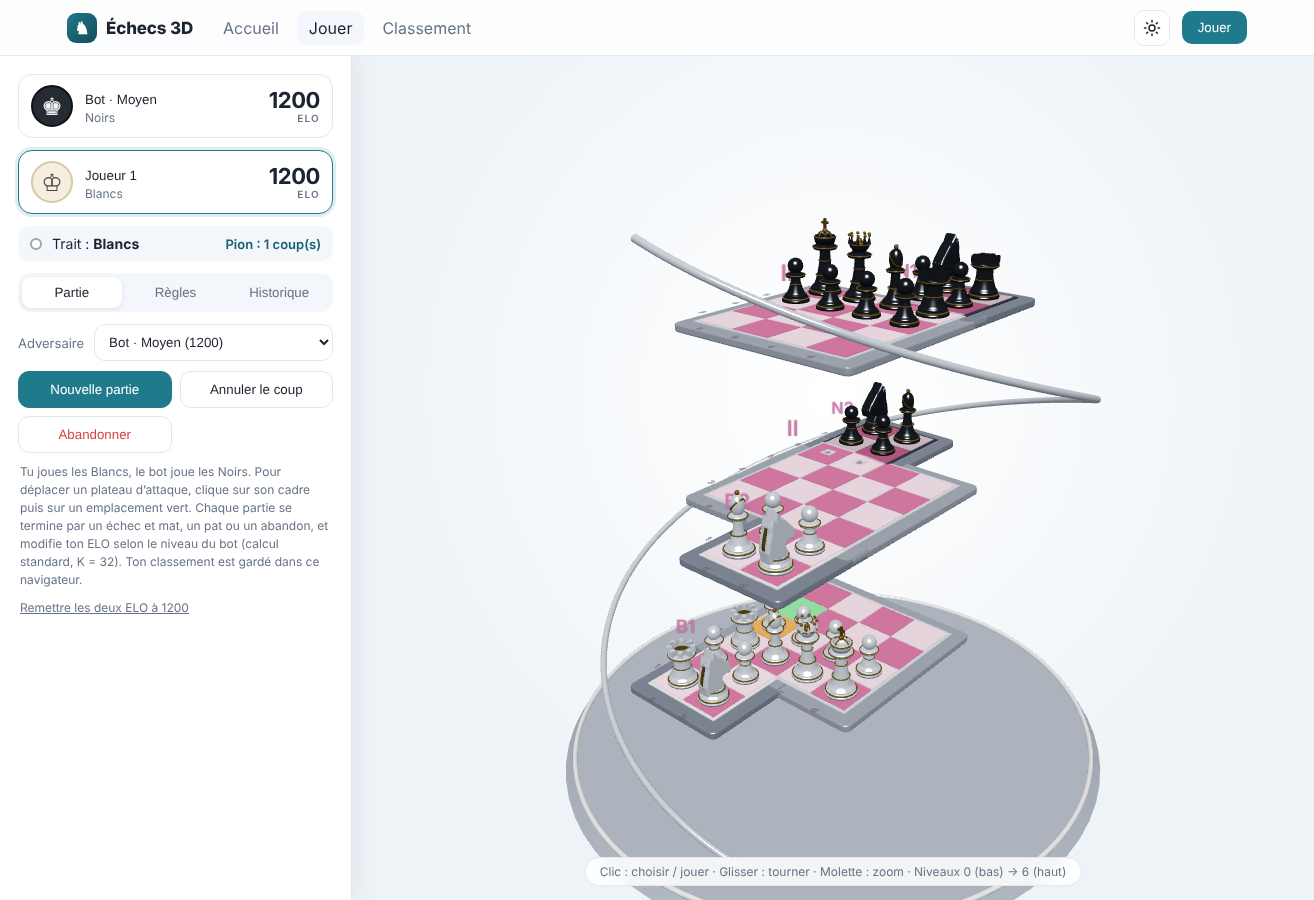
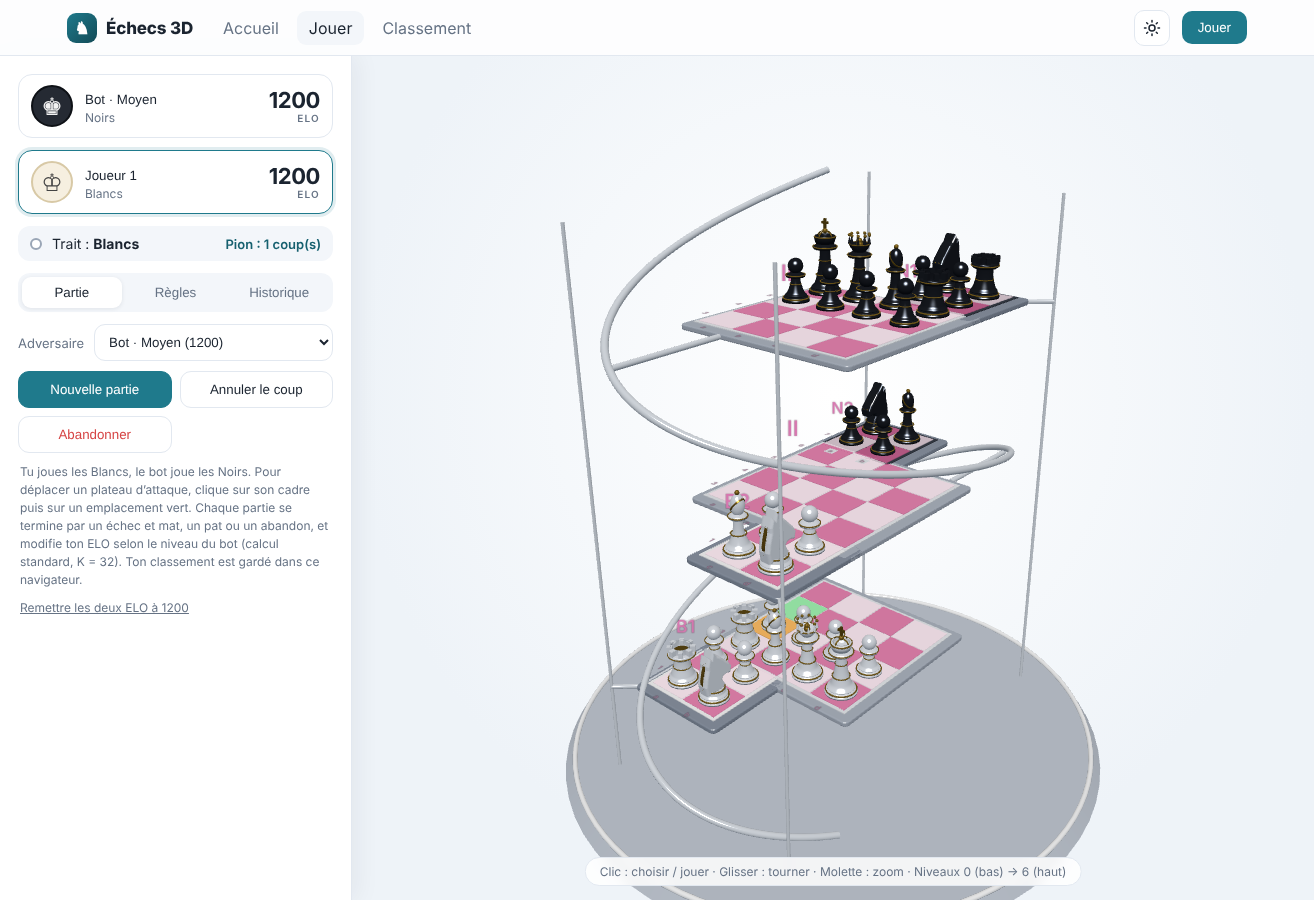
Plateau refait comme la maquette : plaques fines à bord argenté, spirale chromée reliée aux plateaux par des bras, colonnes d'angle pour les plateaux d'attaque
Claude-Session: https://claude.ai/code/session_01Grt3MVHYQUhc4gDu99tZDS

diff --git a/index.html b/index.html
@@ -214,15 +214,15 @@ const ivMat=chrome(0xffffff,180);
 const nkMat=chrome(0x3a404a,120);
 function mkBoard(x0,y0,w,h,z,own,bid){
   const Y=z*GAP,cx=(x0+(w-1)/2-1.5)*S,cz=(3.5-(y0+(h-1)/2))*S;
-  const fr=new THREE.Mesh(new THREE.ExtrudeGeometry(rrShape(w*S+.7,h*S+.7,.14),{depth:.1,bevelEnabled:true,bevelSize:.04,bevelThickness:.04,bevelSegments:3}),bid?frameMatB:frameMat);
-  fr.rotation.x=-Math.PI/2;fr.position.set(cx,Y-.17,cz);boardGroup.add(fr);
+  const fr=new THREE.Mesh(new THREE.ExtrudeGeometry(rrShape(w*S+.5,h*S+.5,.12),{depth:.06,bevelEnabled:true,bevelSize:.03,bevelThickness:.03,bevelSegments:3}),bid?frameMatB:frameMat);
+  fr.rotation.x=-Math.PI/2;fr.position.set(cx,Y-.14,cz);boardGroup.add(fr);
   if(bid){fr.userData.bid=bid;frameMeshes.push(fr)}
   const inl=new THREE.Mesh(new THREE.BoxGeometry(w*S+.14,.02,h*S+.14),bid?(own=='w'?ivMat:nkMat):goldMat);inl.position.set(cx,Y-.01,cz);boardGroup.add(inl);
   for(let a=0;a<w;a++)for(let c=0;c<h;c++){const x=x0+a,y=y0+c;const base=(x+y+z)%2?LIGHT:DARK;
     const m=new THREE.Mesh(new THREE.BoxGeometry(S*.97,.07,S*.97),new THREE.MeshStandardMaterial({color:base,roughness:.18,metalness:.1,emissive:base,emissiveIntensity:.2,transparent:true,opacity:.8}));
     m.position.copy(wp(x,y,z));m.position.y-=.02;m.userData={x,y,z,base,bd:bid||null};boardGroup.add(m);cellMeshes.push(m)}
-  for(let a=0;a<w;a++)flat('abcd'[x0+a],(x0+a-1.5)*S,Y+.02,cz+(h*S/2+.4));
-  for(let c=0;c<h;c++)flat(String(y0+c+1),cx-(w*S/2+.4),Y+.02,(3.5-(y0+c))*S);
+  for(let a=0;a<w;a++)flat('abcd'[x0+a],(x0+a-1.5)*S,Y+.02,cz+(h*S/2+.3),.26);
+  for(let c=0;c<h;c++)flat(String(y0+c+1),cx-(w*S/2+.3),Y+.02,(3.5-(y0+c))*S,.26);
   const tag=bid?bid:'';const names=['I','II','III'];
   const L=new THREE.Sprite(new THREE.SpriteMaterial({map:txt(bid||names[(z-1)/2],'#b02e6f',bid?80:100),transparent:true}));
   L.position.set(cx-(w*S/2+.95),Y+.2,cz-(h*S/2-.1));L.scale.set(.7,.7,1);boardGroup.add(L)}
@@ -231,9 +231,16 @@ function buildBoards(){
   for(const z of[1,3,5])mkBoard(0,2,4,4,z,null,null);
   for(const b of ST.bd)mkBoard(b.x0,b.y0,2,2,b.z,b.own,b.id);
   const H=6*GAP;
-  // pied chromé en spirale, comme le jeu de la série
-  const pts=[];for(let i=0;i<=90;i++){const t=i/90,a=1.2+t*Math.PI*2.1;pts.push(new THREE.Vector3(Math.cos(a)*5.6,-.3+t*(H+.8),Math.sin(a)*5.4))}
-  boardGroup.add(new THREE.Mesh(new THREE.TubeGeometry(new THREE.CatmullRomCurve3(pts),260,.07,12,false),chrome(0xe3e8ee,220)));
+  const rod=(a,b,r,m)=>{const d=new THREE.Vector3().subVectors(b,a),len=d.length();const o=new THREE.Mesh(new THREE.CylinderGeometry(r,r,len,12),m);o.position.copy(a).addScaledVector(d,.5);o.quaternion.setFromUnitVectors(new THREE.Vector3(0,1,0),d.normalize());boardGroup.add(o)};
+  const CH=chrome(0xe3e8ee,220),Ht=H+.8,A=3.3,B=5.4;
+  const hp=t=>{const a=.6+t*Math.PI*3;return new THREE.Vector3(Math.cos(a)*A,-.3+t*Ht,Math.sin(a)*B)};
+  const pts=[];for(let i=0;i<=120;i++)pts.push(hp(i/120));
+  boardGroup.add(new THREE.Mesh(new THREE.TubeGeometry(new THREE.CatmullRomCurve3(pts),320,.075,12,false),CH));
+  // bras qui tiennent chaque plateau principal sur la spirale
+  for(const z of[1,3,5]){const Y=z*GAP,P=hp((Y+.3)/Ht);const Q=new THREE.Vector3(Math.max(-2.3,Math.min(2.3,P.x)),Y-.1,Math.max(-2.3,Math.min(2.3,P.z)));rod(new THREE.Vector3(P.x,Y-.1,P.z),Q,.06,CH)}
+  // colonnes d'angle des plateaux d'attaque
+  for(const sx of[-1,1])for(const sz of[-1,1]){const px=sx*2.7,pz=sz*4.6;rod(new THREE.Vector3(px,-.3,pz),new THREE.Vector3(px,H+.3,pz),.035,CH)}
+  for(const b of ST.bd){const sx=b.x0==0?-1:1,sz=b.y0==0?1:-1,Y=b.z*GAP-.1;rod(new THREE.Vector3(sx*2.7,Y,sz*4.6),new THREE.Vector3(sx*2.25,Y,sz*4.2),.05,CH)}
   const base=new THREE.Mesh(new THREE.CylinderGeometry(6.3,6.6,.28,64),chrome(0xc9d0da,160));base.position.y=-.6;boardGroup.add(base);
   const rim=new THREE.Mesh(new THREE.TorusGeometry(6.35,.06,10,96),chrome(0xffffff,220));rim.rotation.x=Math.PI/2;rim.position.y=-.45;boardGroup.add(rim)}
 // pieces
